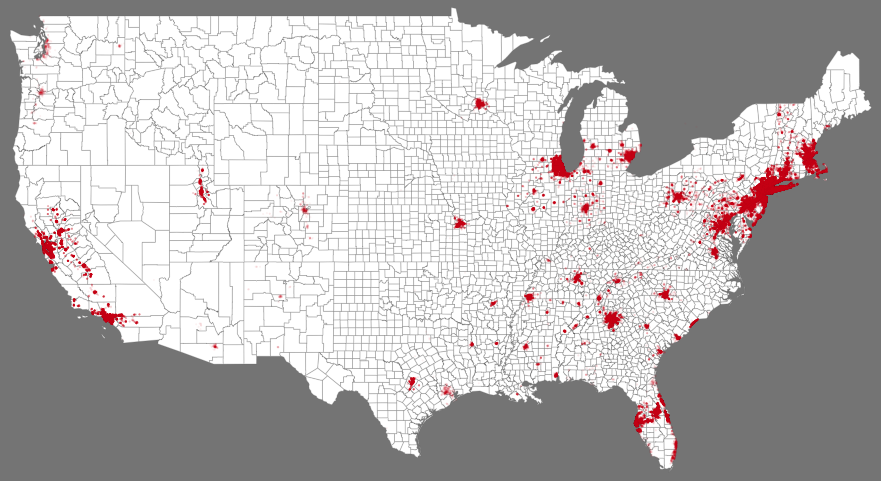
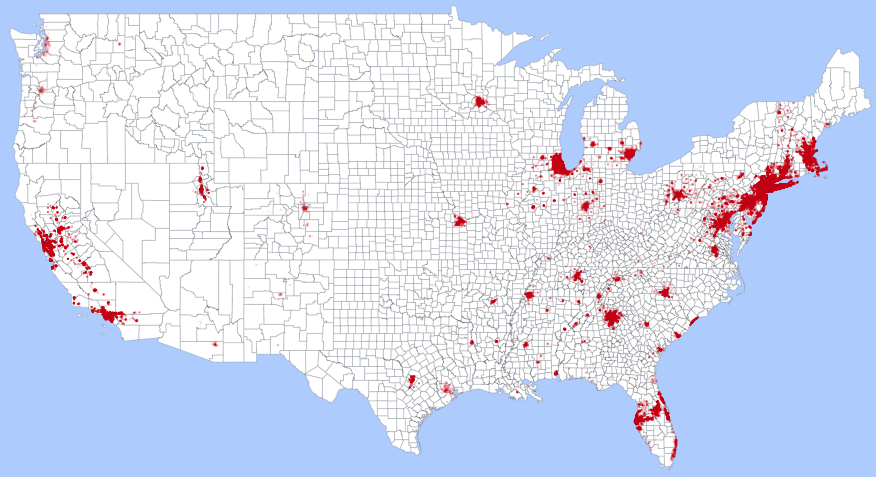
a

diff --git a/2014/drafts/can-you-track-me-now.md b/2014/drafts/can-you-track-me-now.md
@@ -236,8 +236,8 @@ Those dots are actually bitmap tiles (even as you zoom in). Xfinity either did t
     gg <- gg + labs(x="", y="")
     gg <- gg + theme_bw()
     
-    # the map tends to stand out beter on a darker background but
-    # the panel background color isn't truly "necessary"
+    # the map tends to stand out beter on a non-white background
+    # but the panel background color isn't truly "necessary"
     
     gg <- gg + theme(panel.background=element_rect(fill="#878787"))
     gg <- gg + theme(panel.grid=element_blank())
@@ -251,6 +251,6 @@ Those dots are actually bitmap tiles (even as you zoom in). Xfinity either did t
 
 <a class="mag" href="/blog/images/2014/05/xfin-ggplot-1.png"><img style="max-width:100%" src="http://datadrivensecurity.info/blog/images/2014/05/xfin-ggplot-1.png"/></a>
 
-I made the dots a bit smaller and used a fairly reasonable alpha setting for them. However, the macro- (i.e. the view of the whole U.S.) plus dot-view really doesn't give a feel for just how pervasive the coverage (and, hence, tracking) is per area.
+I made the dots a bit smaller and used a fairly reasonable alpha setting for them. However, the macro- (i.e. the view of the whole U.S.) plus dot-view really doesn't give a feel for the true scope of the coverage (or possible tracking) is per area.
 
  
